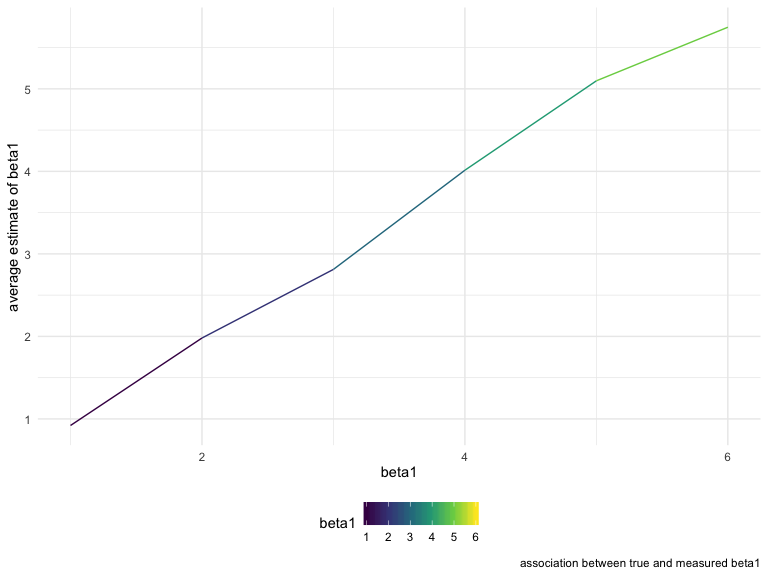
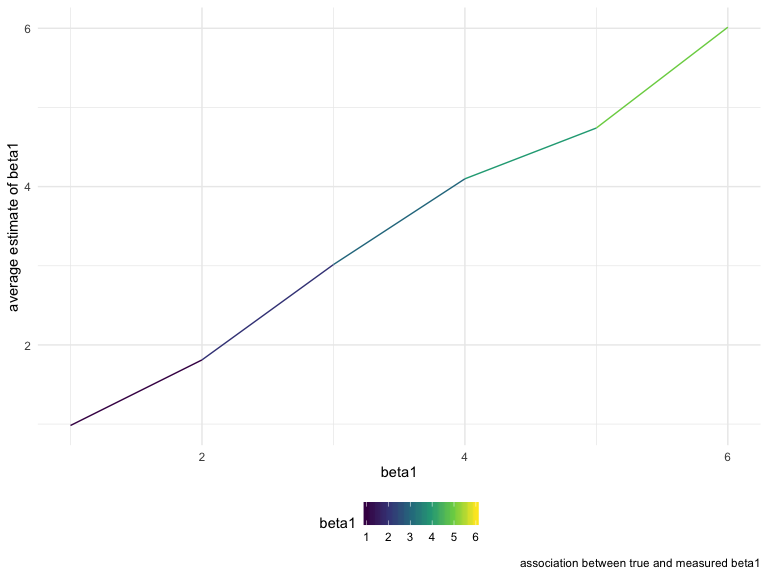
edited problem 3

diff --git a/p8105_hw5_yy2912.md b/p8105_hw5_yy2912.md
@@ -93,7 +93,7 @@ sim_regression = function(n=30, beta0 = 2, beta1 = 0) {
 
 ``` r
 output1 = 
-  rerun(10, sim_regression(30, 2, 0)) %>% 
+  rerun(10000, sim_regression(30, 2, 0)) %>% 
   bind_rows
 ```
 
@@ -172,7 +172,7 @@ sim_results%>%
 <img src="p8105_hw5_yy2912_files/figure-gfm/unnamed-chunk-11-1.png" width="90%" />
 
 From the plot, only in samples for which the null was rejected, the
-average estimate of beta1 decreases as the true value of beta1
+average estimate of beta1 also increases as the true value of beta1
 increases.
 
 The sample average of beta1 across tests for which the null is rejected
